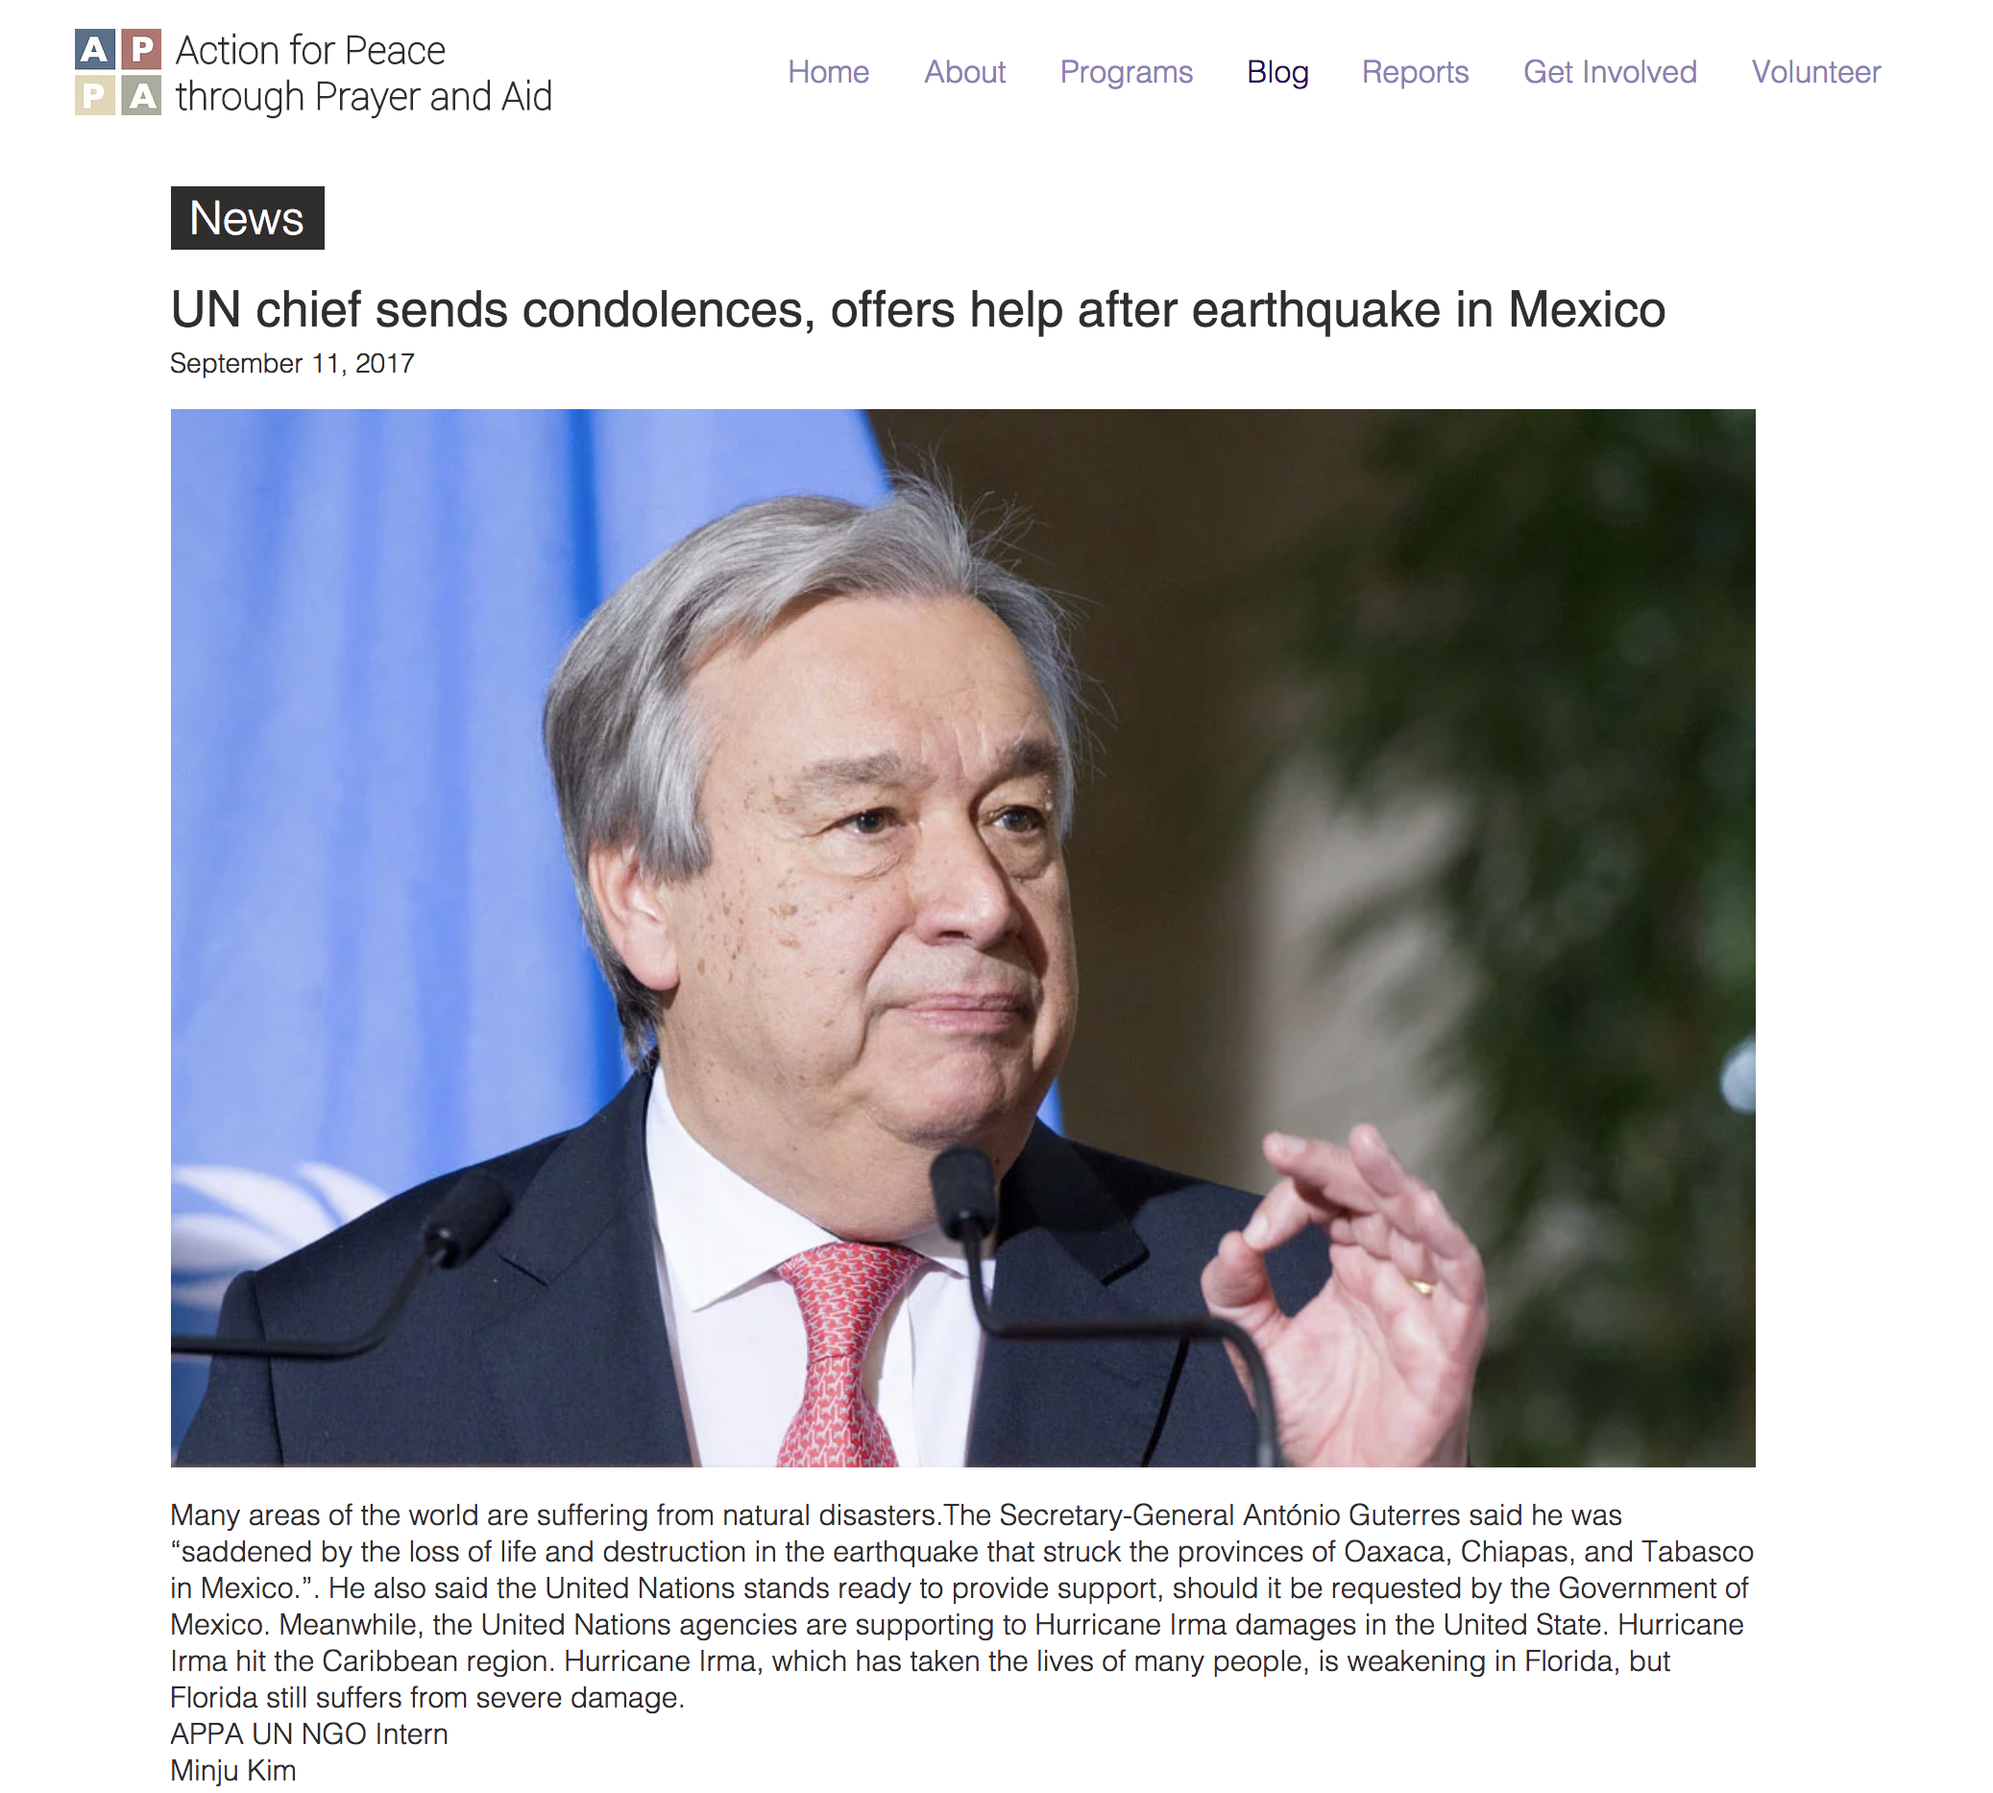
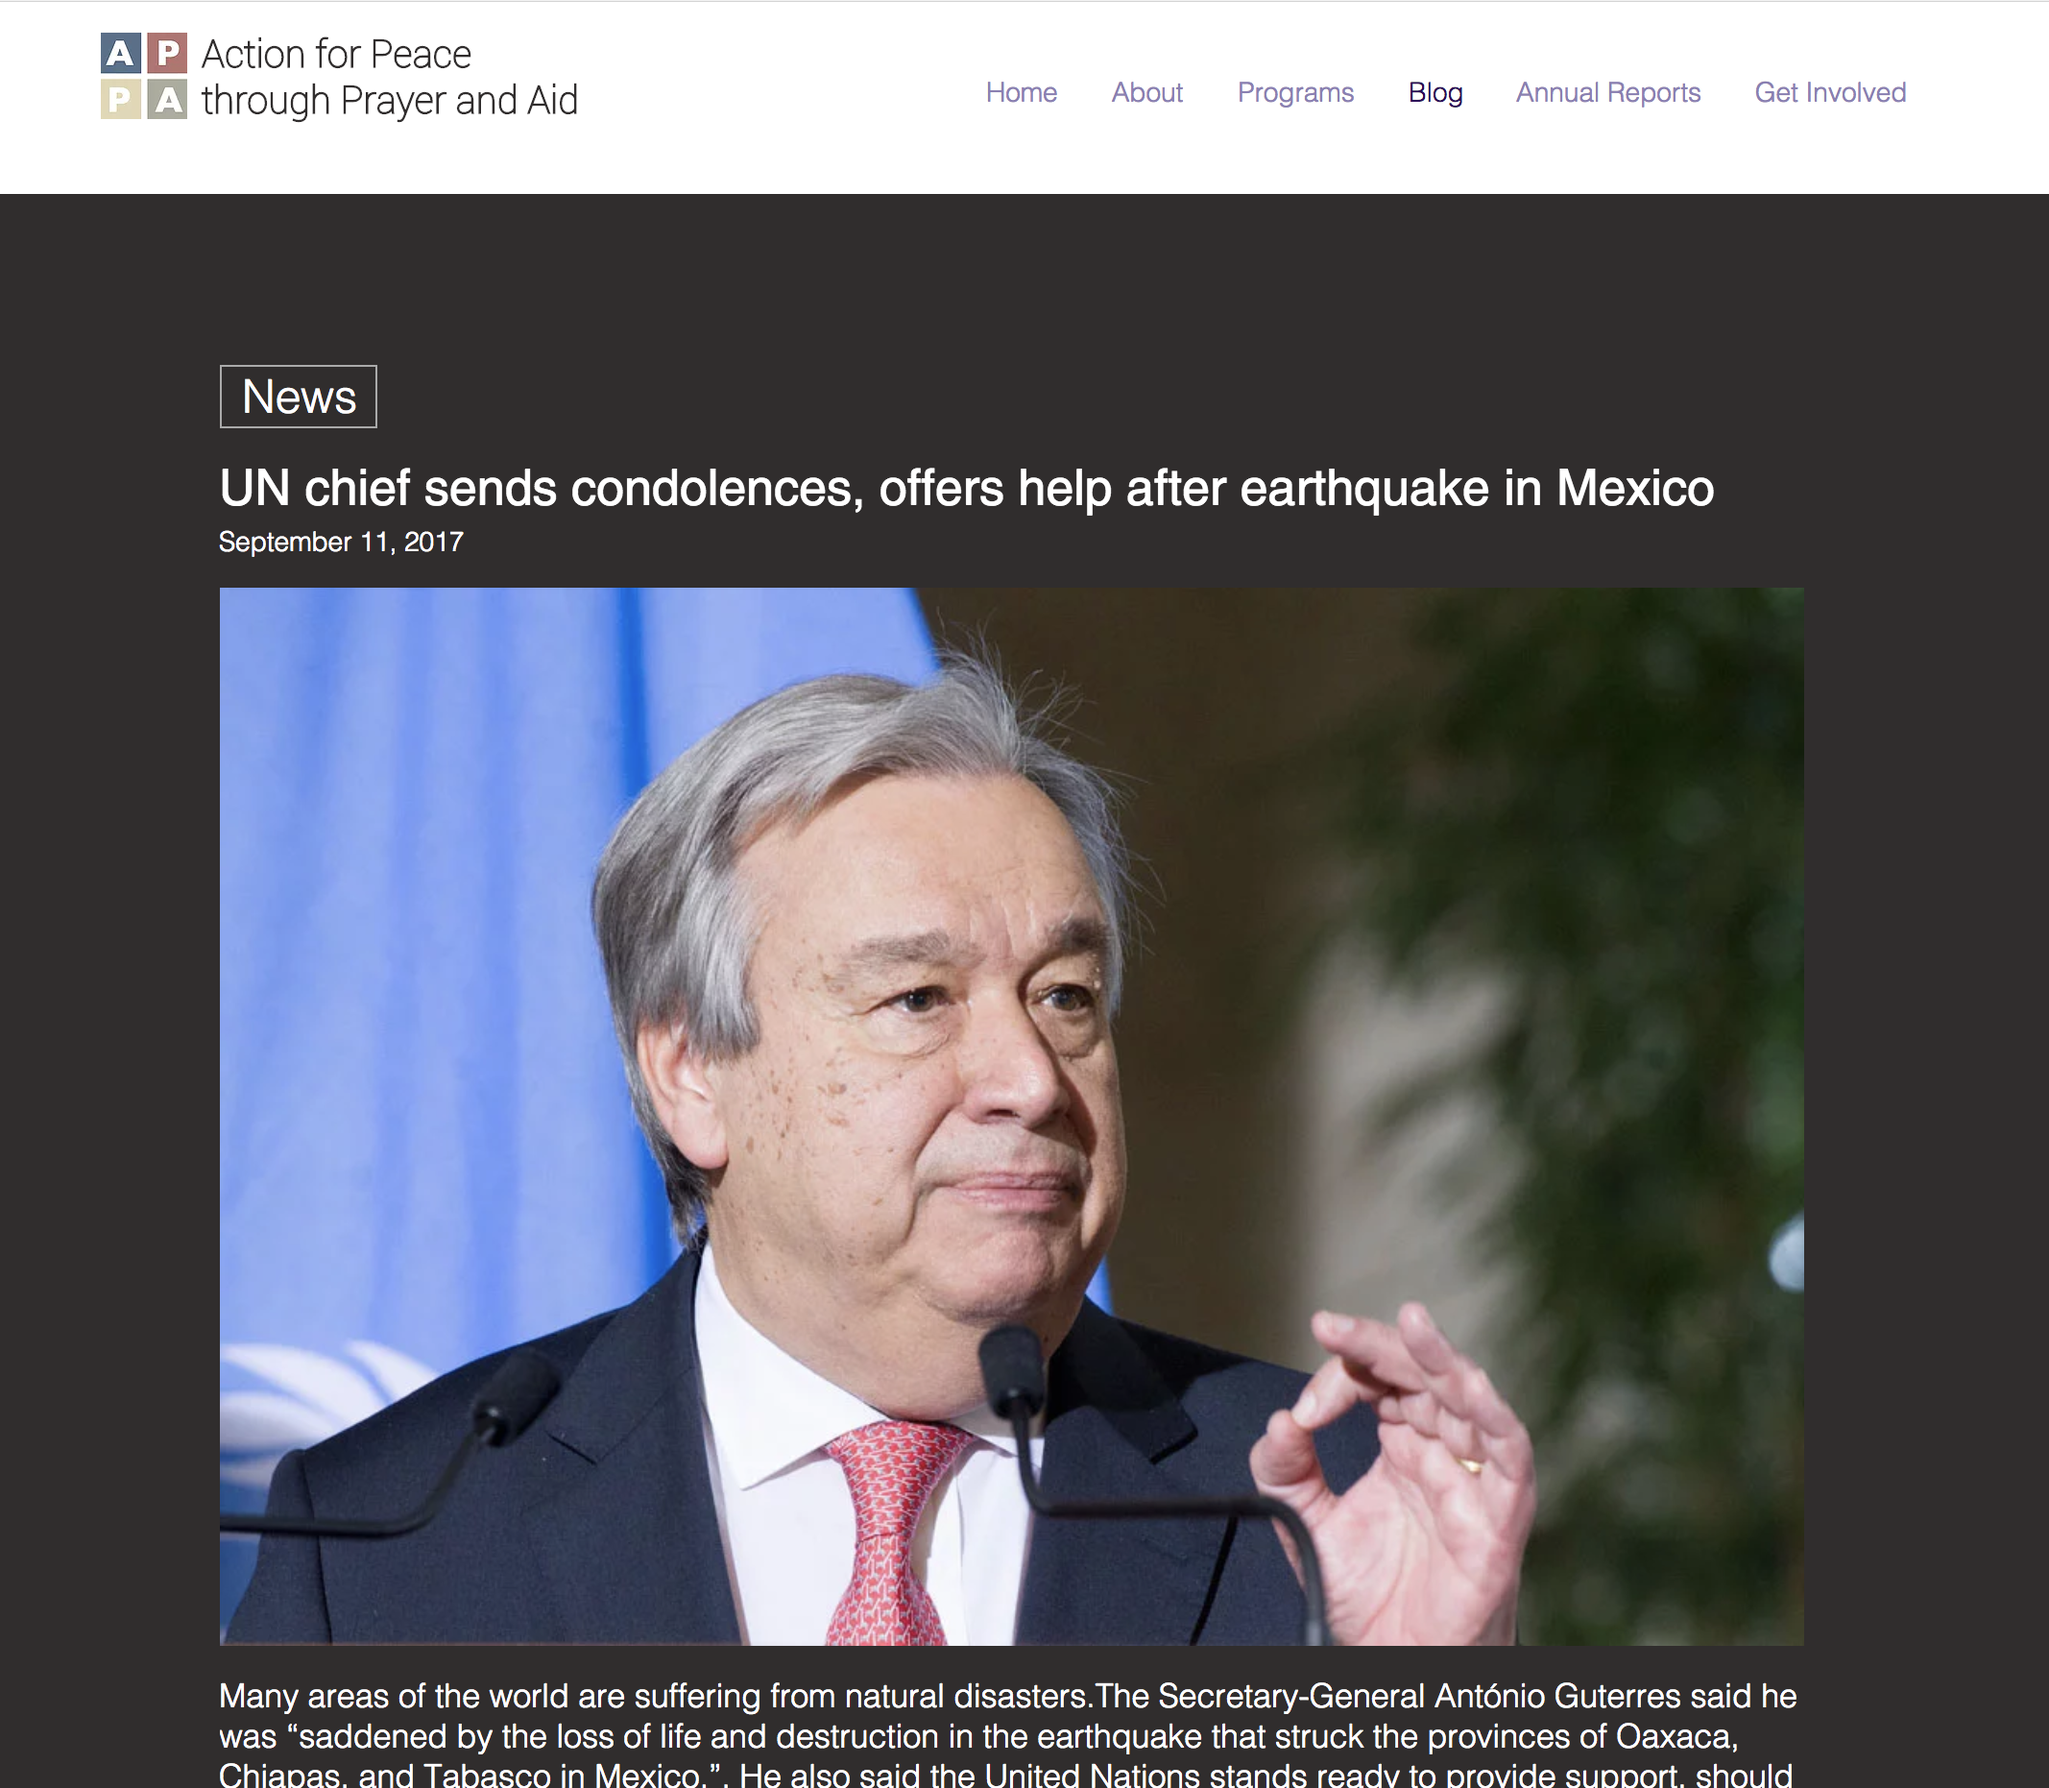
Updated Appa website

diff --git a/appa.html b/appa.html
@@ -99,8 +99,8 @@
 
 					<div class="col-md-offset-3 col-md-6 col-sm-offset-2 col-sm-8">
 						<div class="header-thumb">
-							<h1 class="wow fadeIn" data-wow-delay="1.6s">Garden</h1>
-							<h3 class="wow fadeInUp" data-wow-delay="1.9s">Control Over Your Own Stuff (COYOS)</h3>
+							<h1 class="wow fadeIn" data-wow-delay="1.6s">Action through Prayer and Aid </h1>
+							<h3 class="wow fadeInUp" data-wow-delay="1.9s">Official Website</h3>
 						</div>
 					</div>
 
@@ -133,14 +133,12 @@
 						<div class="wow fadeInUp col-md-7 col-sm-7" data-wow-delay="2.6s">
 							<p> As a web designer intern for a non-profit organization Action Through Prayer and Aid, I created the official website, which can be found at www.appaun.org.
                 The director of the program wanted to emphasize the organization's mission statement; thus, I had included the related information in both the main home page and the about section.
-                I also designed the 2016-2017 annual report, which can be found under Reports/Annual Reports section. </p>
+                I also designed the 2016-2017 annual report, which can be located by clicking on "Report". </p>
 								<img src="images/appaun_home.png" class="img-responsive" alt="Single Project">
+								<img src="images/appaun_home2.png" class="img-responsive" alt="Single Project">
 								<img src="images/appaun_about.png" class="img-responsive" alt="Single Project">
-								<img src="images/appaun_programs.png" class="img-responsive" alt="Single Project">
 								<img src="images/appaun_blog.png" class="img-responsive" alt="Single Project">
 								<img src="images/appaun_reports.png" class="img-responsive" alt="Single Project">
-								<img src="images/appaun_getinvolved.png" class="img-responsive" alt="Single Project">
-								<img src="images/appaun_volunteer.png" class="img-responsive" alt="Single Project">
 							</div>
 
 						</div>

diff --git a/index.html b/index.html
@@ -118,18 +118,7 @@
 						<div class="iso-box-wrapper col4-iso-box">
 
 
-<!-- 
-							<div class="iso-box web col-md-4 col-sm-6">
-								<div class="portfolio-thumb">
-									<img src="images/appaun_home.png" class="img-responsive" alt="Portfolio">
-									<div class="portfolio-overlay">
-										<div class="portfolio-item">
-											<a href="appa.html"><i class="fa fa-link"></i></a>
-											<h2 class="portfolio_title">APPA Official website</h2>
-										</div>
-									</div>
-								</div>
-							</div> -->
+
 
 
 							<div class="iso-box app col-md-4 col-sm-6">
@@ -144,6 +133,22 @@
 								</div>
 							</div>
 
+
+
+
+														<div class="iso-box web col-md-4 col-sm-6">
+															<div class="portfolio-thumb">
+																<img src="images/appaun_home.png" class="img-responsive" alt="Portfolio">
+																<div class="portfolio-overlay">
+																	<div class="portfolio-item">
+																		<a href="appa.html"><i class="fa fa-link"></i></a>
+																		<h2 class="portfolio_title">APPA Official website</h2>
+																	</div>
+																</div>
+															</div>
+														</div>
+
+														
 							<div class="iso-box print col-md-4 col-sm-6">
 								<div class="portfolio-thumb">
 									<img src="images/hand.jpg" class="img-responsive" alt="Portfolio">
